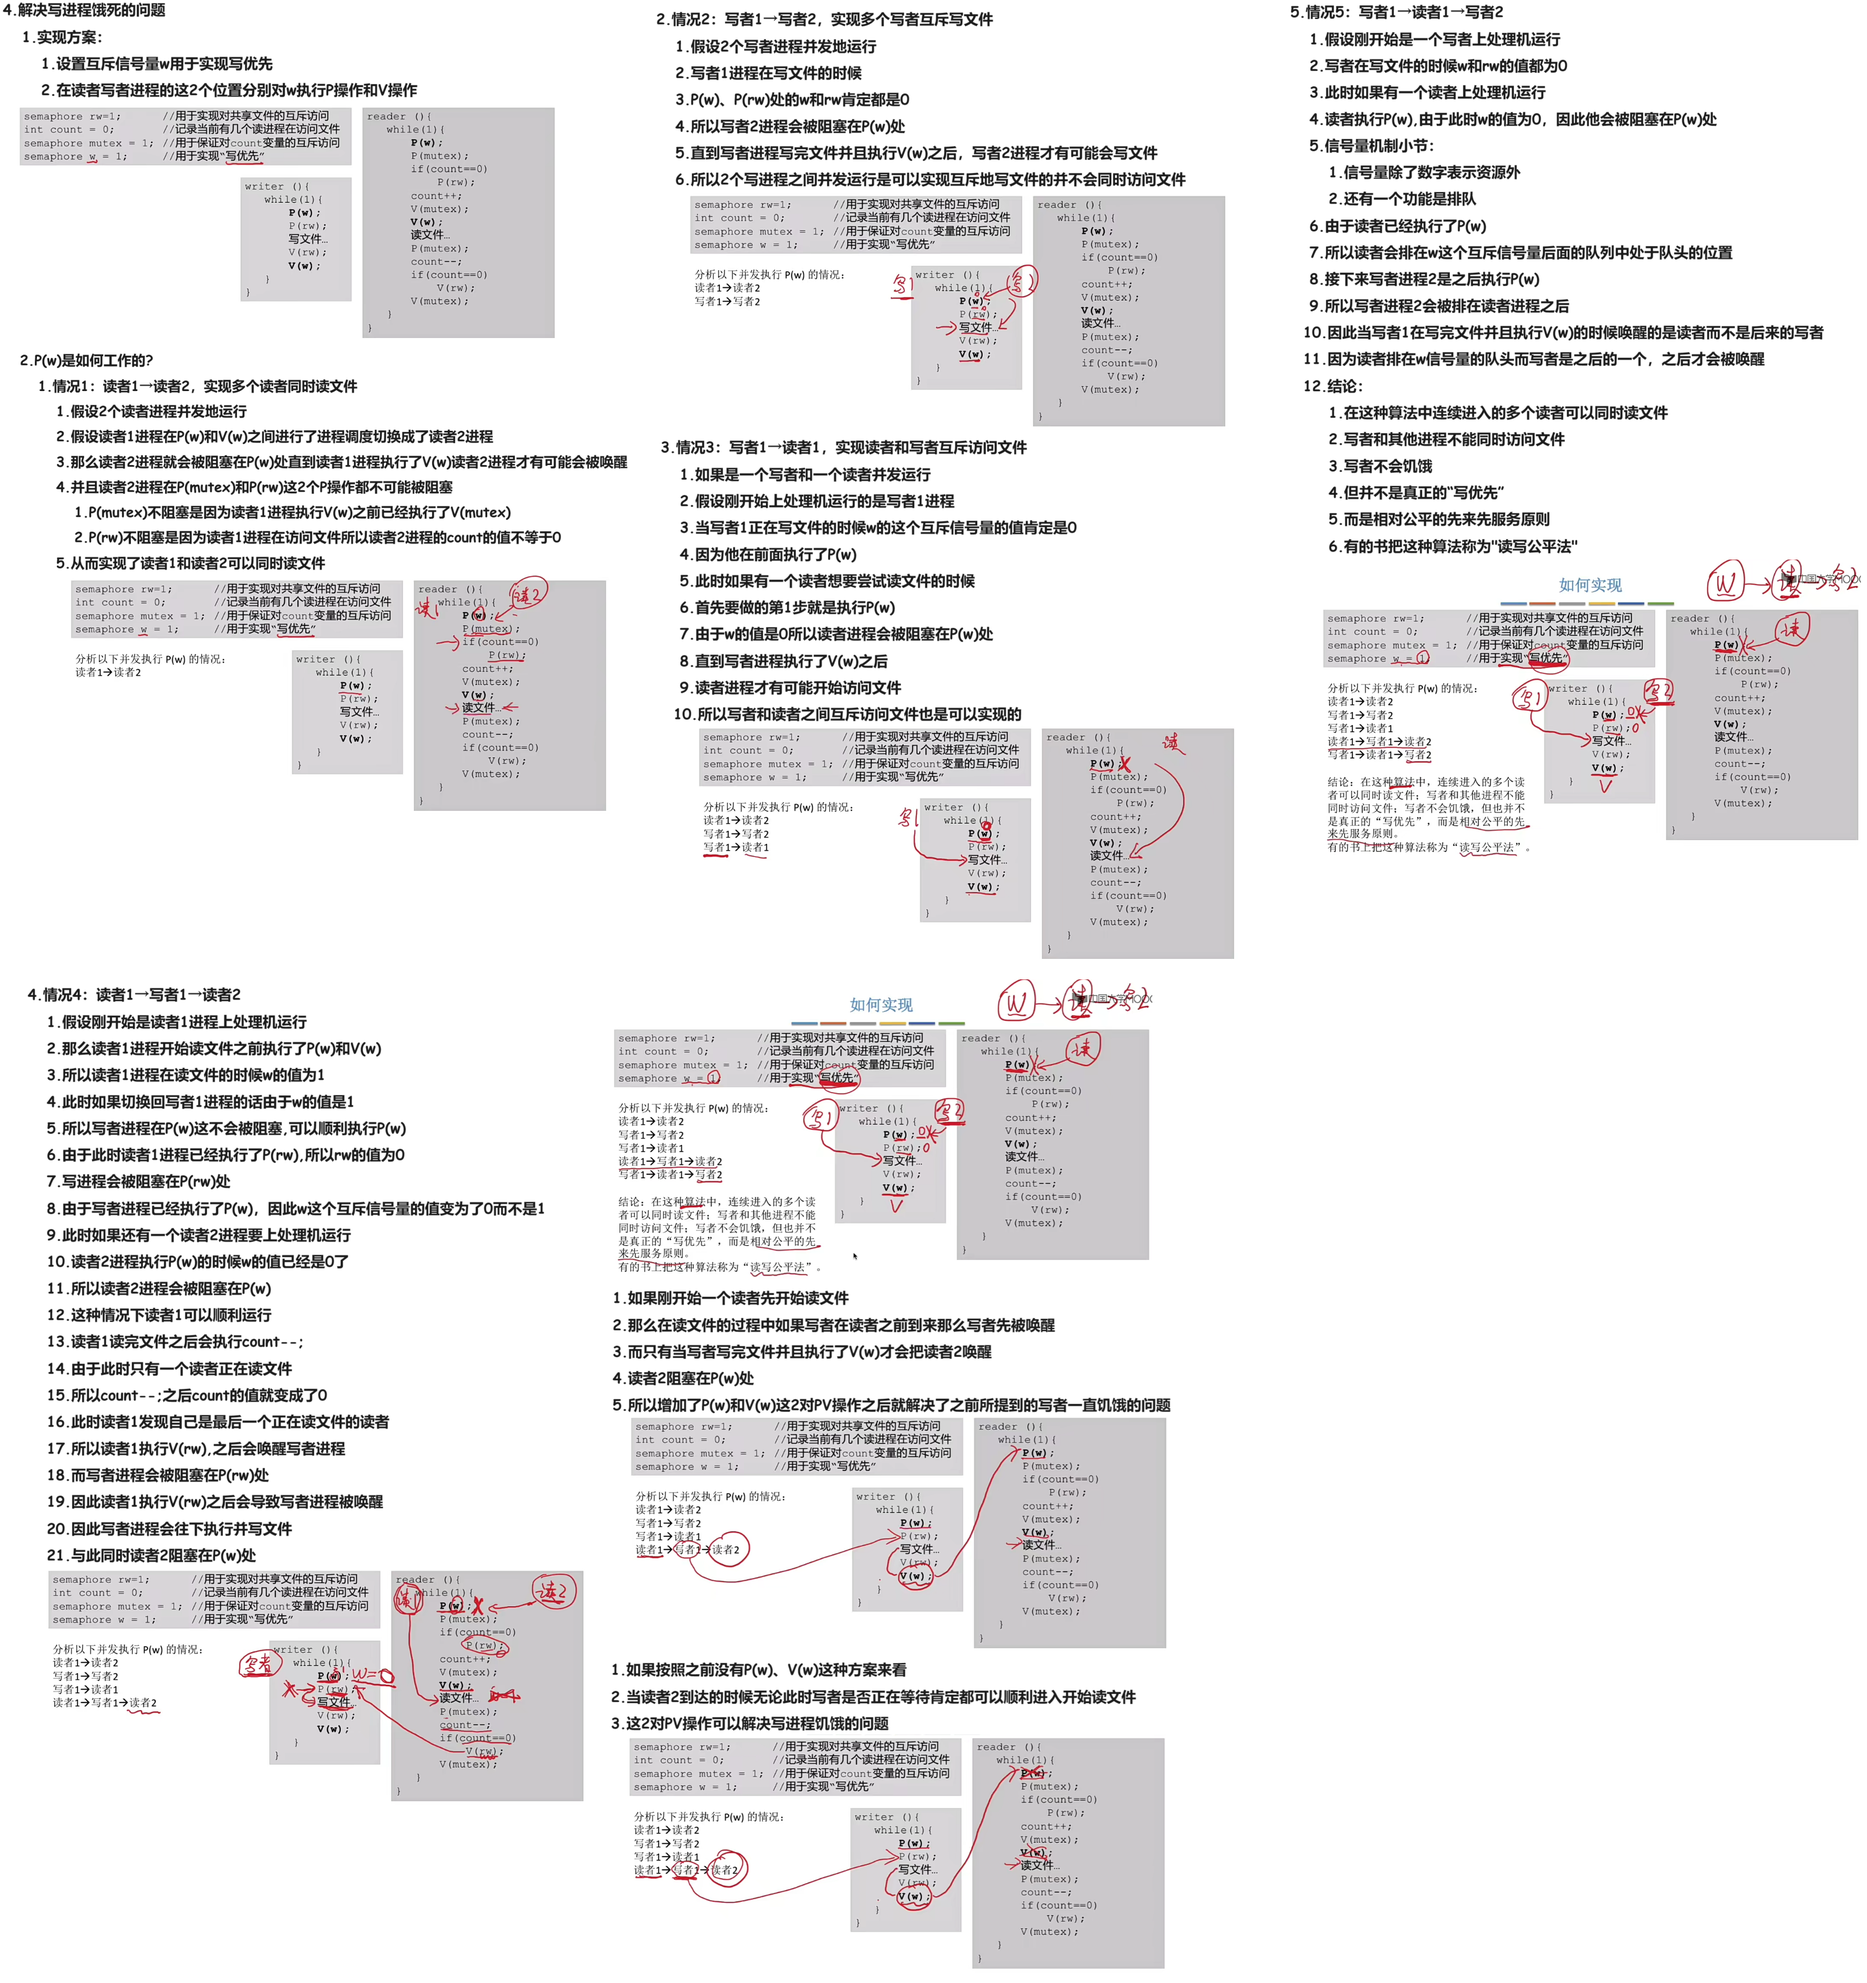
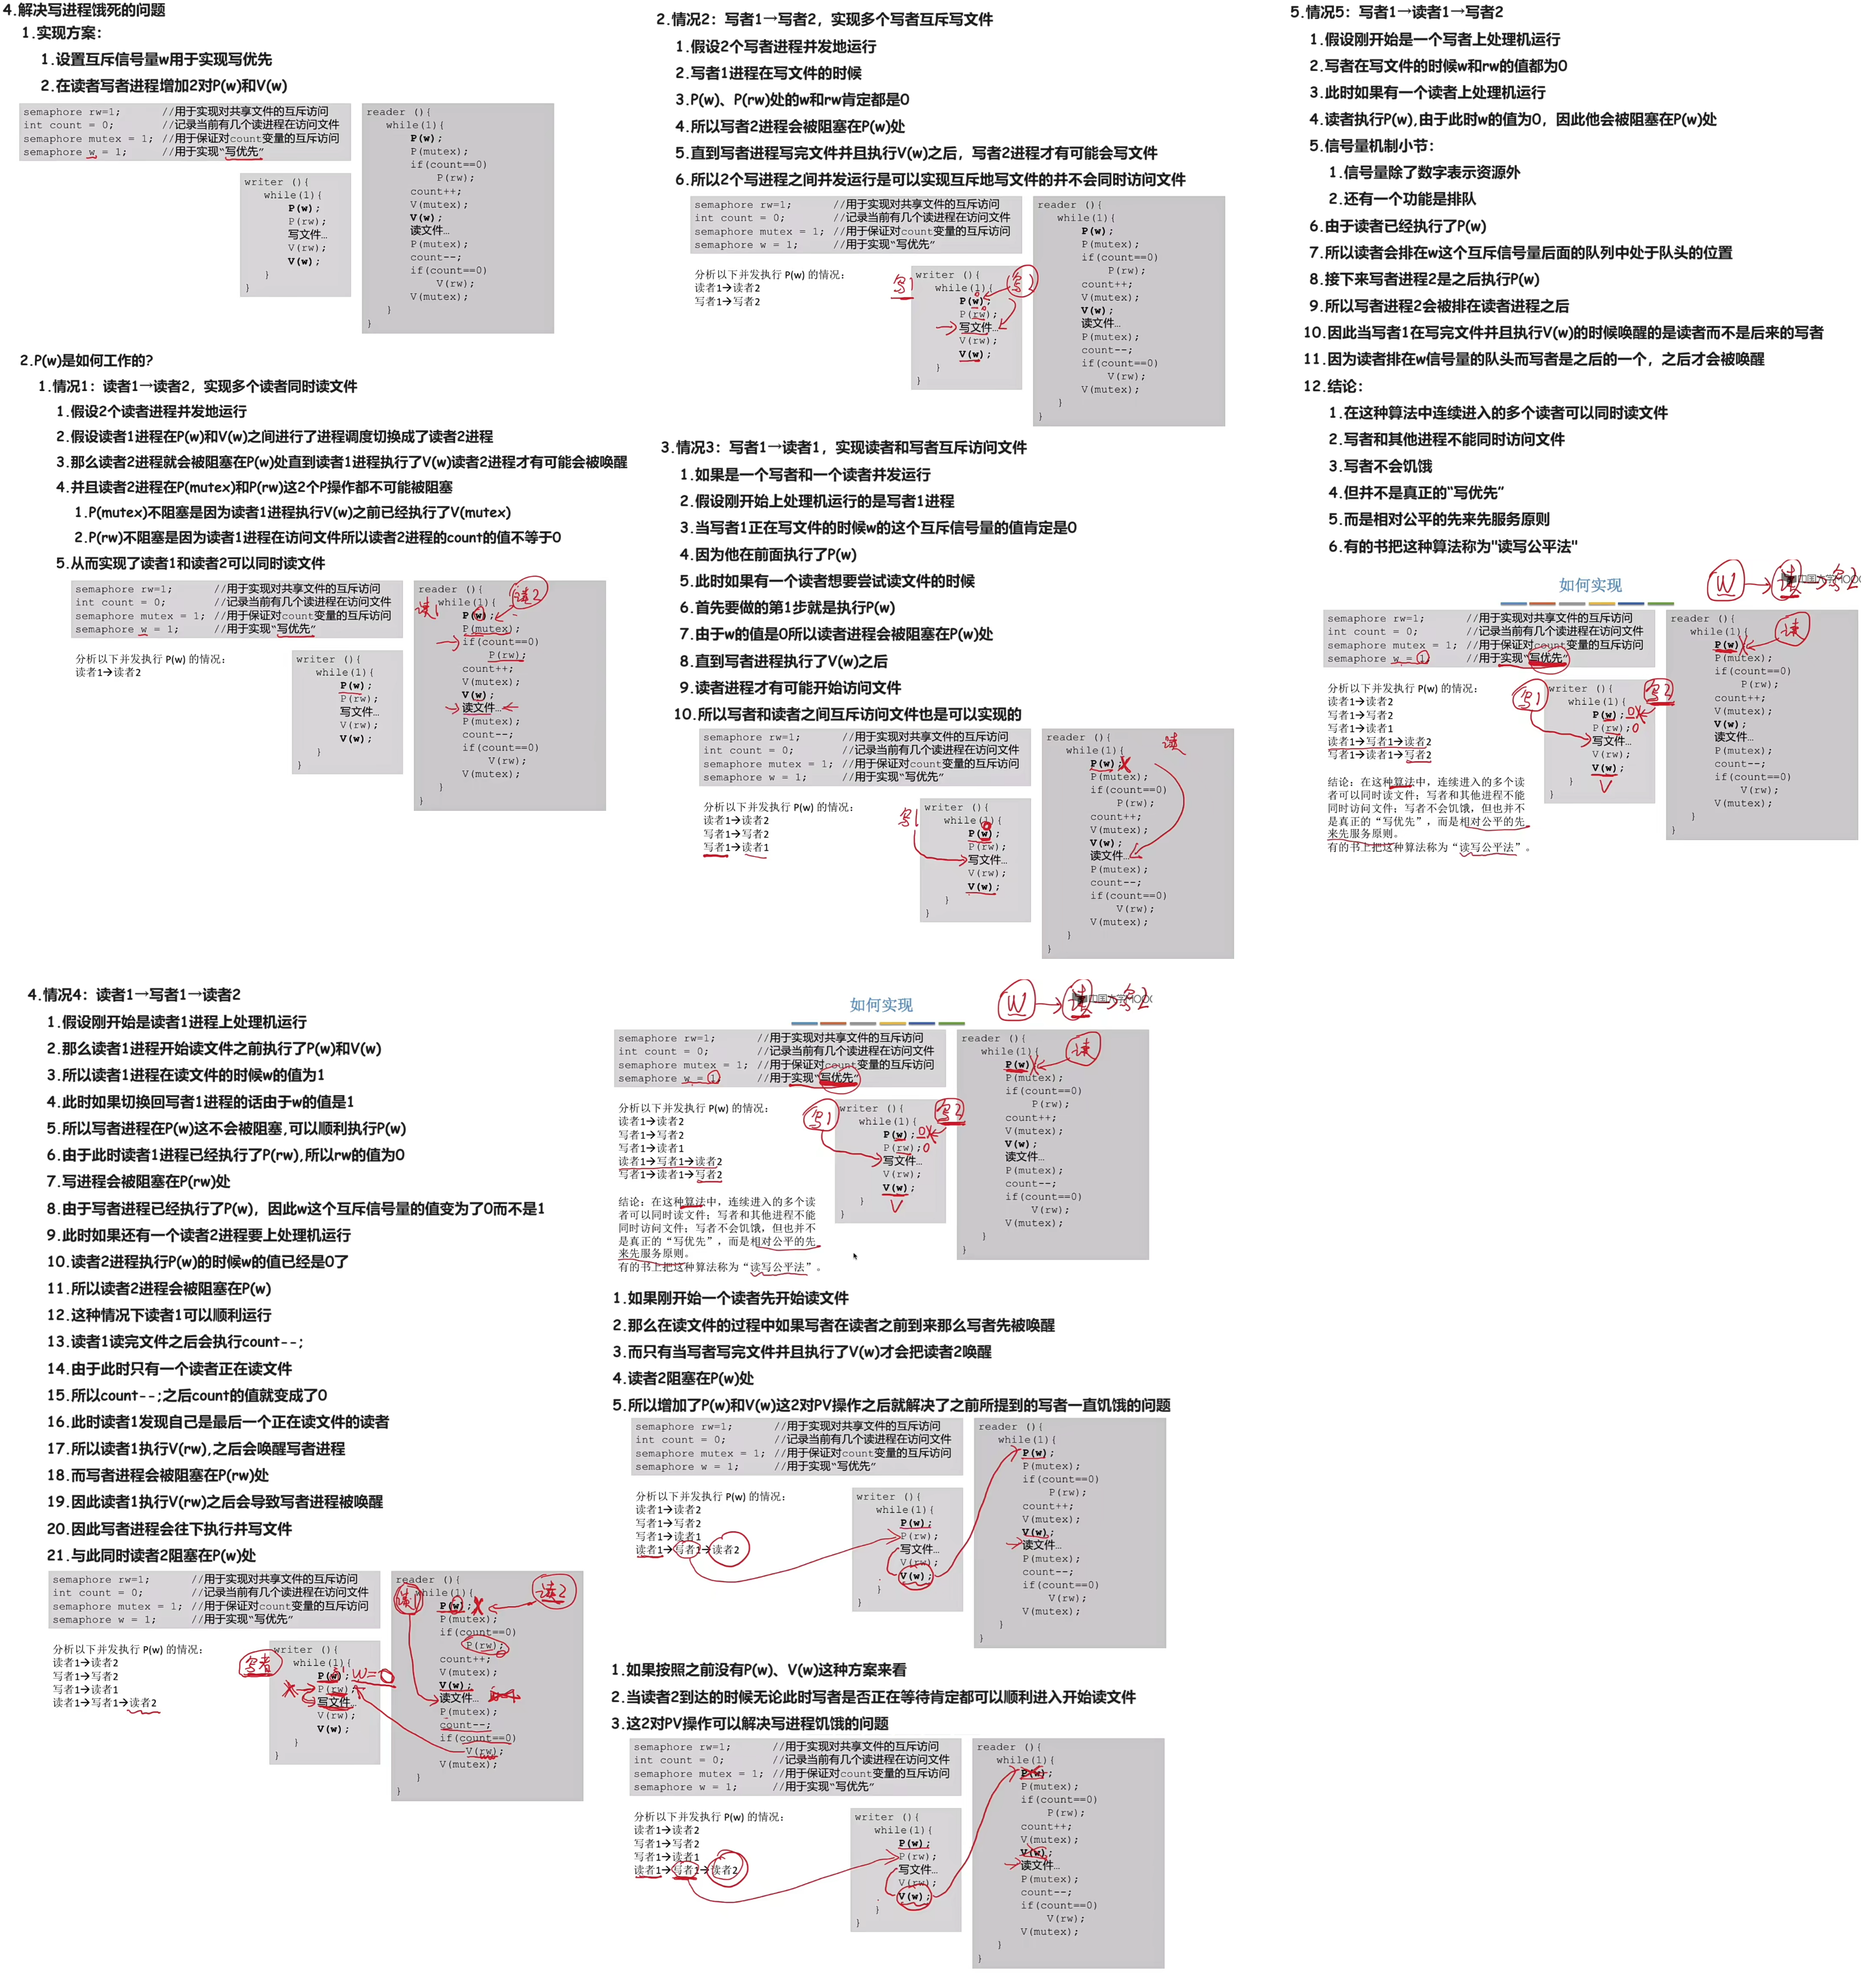
231220

Changed region(s): [[0.0, 0.0, 0.2485, 0.156]]

diff --git a/04 每日一题/03 操作系统知识点/01 读写者问题 231215/01 Doc.md b/04 每日一题/03 操作系统知识点/01 读写者问题 231215/01 Doc.md
@@ -7,3 +7,9 @@
 <img src="https://cvp.oss-cn-shanghai.aliyuncs.com/picgo/202312181606494.png" alt="image-20231218160627804" style="zoom:50%;" />
 
 <img src="https://cvp.oss-cn-shanghai.aliyuncs.com/picgo/202312181742950.png" alt="image-20231218174256162" style="zoom:50%;" />
+
+
+
+# 造成写进程饿死的原因
+
+![image-20231220183937160](https://cvp.oss-cn-shanghai.aliyuncs.com/picgo/202312201839419.png)
